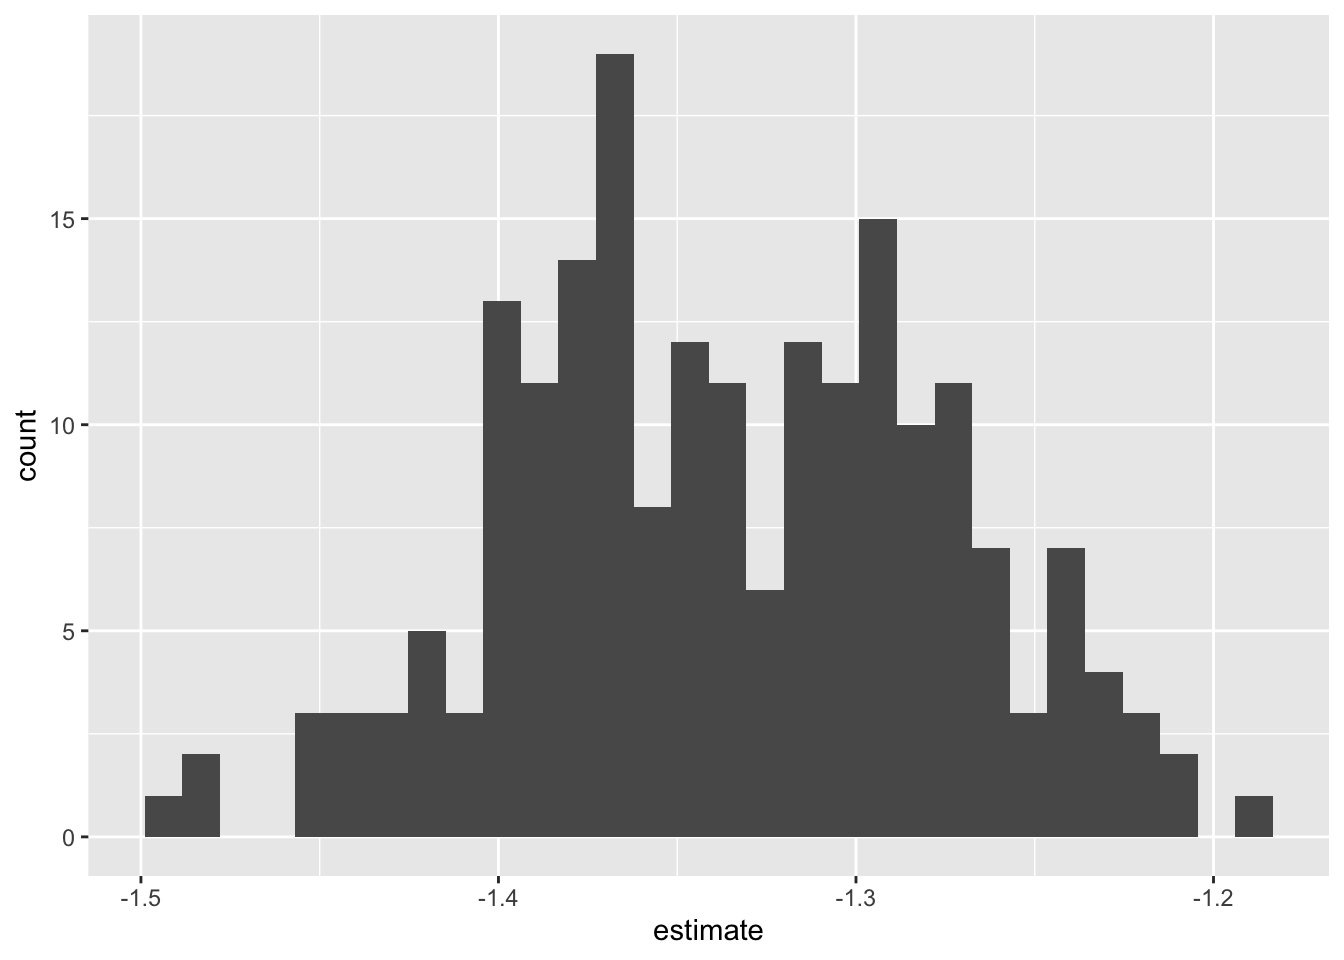
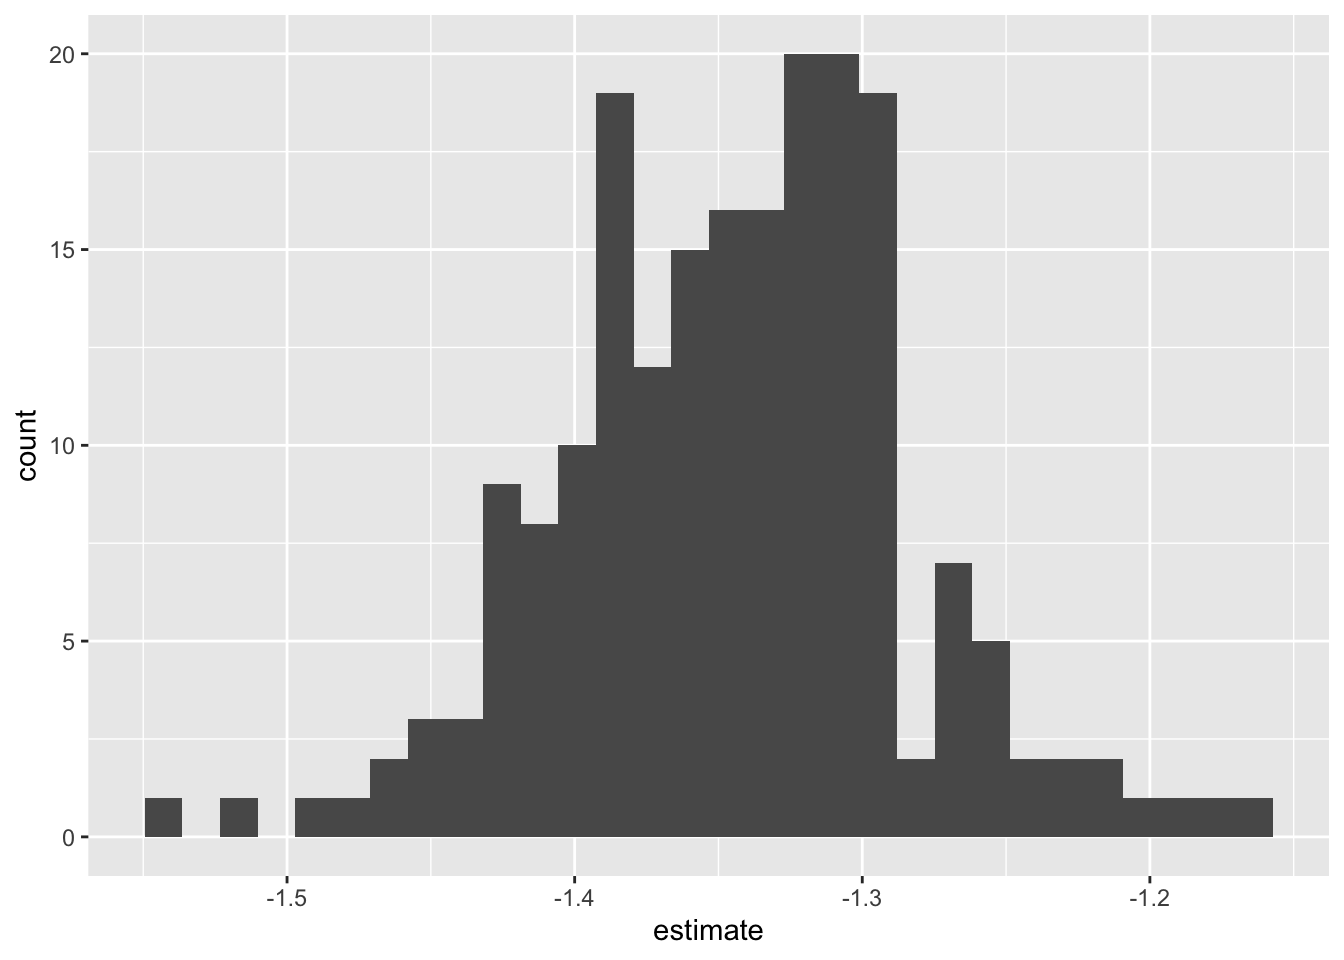
adding more explanation to plots
also naming code chonks, adding reminder on log-10 scaling readouts, adding more comments in crazy plotting code

diff --git a/posts/2020-04-08-tidy-multilevel/index.html b/posts/2020-04-08-tidy-multilevel/index.html
@@ -406,19 +406,19 @@ plot_hist_avo_total_volume &lt;- avocado %&gt;%
   theme_bw()
 
 plot_hist_avo_total_volume</code></pre>
-<p><img src="/posts/2020-04-08-tidy-multilevel/index_files/figure-html/unnamed-chunk-6-1.png" width="672" /></p>
+<p><img src="/posts/2020-04-08-tidy-multilevel/index_files/figure-html/avo-vol-hist-1.png" width="672" /></p>
 <p>Ooh, yikes, the weekly total avocados sold looks super gamma-skewed. Most weeks it’s maybe a few tens of thousands of avocados sold, but in some weeks and some regions it gets into the millions of avocados sold (that’s a lot of avocados in a week!), so we would probably do well to log-transform the data to try to get it to take a more normal-ish distribution.</p>
 <p>Right now, we can use one of <code>ggplot2</code>’s scale helper functions to set the scale to be on log-10 units.</p>
 <pre class="language-r"><code class="language-r">plot_hist_avo_total_volume +
   scale_x_log10()</code></pre>
-<p><img src="/posts/2020-04-08-tidy-multilevel/index_files/figure-html/unnamed-chunk-7-1.png" width="672" /></p>
+<p><img src="/posts/2020-04-08-tidy-multilevel/index_files/figure-html/avo-vol-hist-scaled-1.png" width="672" /></p>
 <p>That looks much better! Now we can proceed.</p>
 <p>Next, let’s break up the graph by region, so we can see the sub-histograms of total avocados sold for each metropolitan area. A super-fast way to break up your graph by each grouping unit is to <em>facet</em> your ggplot, or to break it up into small multiples. I like to use <code>facet_wrap(~ grouping_unit)</code> to break a single plot up, so that the data for each metro area is displayed on its own sub-plot, or facet. The “wrap” part of <code>facet_wrap()</code> tries to arrange the facets in “reading” order, from left-to-right and then top-to-bottom to fill the plot area as efficiently as possible.</p>
 <pre class="language-r"><code class="language-r">plot_hist_avo_total_volume +
   # let&#39;s not forget to log-scale the x-axis!
   scale_x_log10() +
   facet_wrap(~ region)</code></pre>
-<p><img src="/posts/2020-04-08-tidy-multilevel/index_files/figure-html/unnamed-chunk-8-1.png" width="672" /></p>
+<p><img src="/posts/2020-04-08-tidy-multilevel/index_files/figure-html/avo-vol-hist-faceted-1.png" width="672" /></p>
 <p>Incidentally, graphing data at first can be a great way of identifying important variables in the data that need to be considered. For example, what if I had forgotten to break up the sales data by conventional vs. organic avocado type?</p>
 <pre class="language-r"><code class="language-r">avocado %&gt;%
   # Notice that I&#39;ve removed the fill aesthetic
@@ -427,7 +427,7 @@ plot_hist_avo_total_volume</code></pre>
   geom_histogram(position = &quot;identity&quot;, bins = 25, alpha = 0.5) +
   scale_x_log10() +
   theme_bw()</code></pre>
-<p><img src="/posts/2020-04-08-tidy-multilevel/index_files/figure-html/unnamed-chunk-9-1.png" width="672" /></p>
+<p><img src="/posts/2020-04-08-tidy-multilevel/index_files/figure-html/avo-vol-hist-bad-1.png" width="672" /></p>
 <p>I might see a bimodal histogram and say “huh, that’s funny.” If I weren’t so careful, I might continue my business without accounting for this bimodality. But optimally I’d stop and think “what additional variable might be driving this bimodality?” and after some exploration, realize that I need to consider conventional vs. organic avocado type when looking at avocado sales in order to properly characterize the data. Always keep an eye out!</p>
 </div>
 <div id="basic-summary-statistics" class="section level3" number="3.4.2">
@@ -999,7 +999,7 @@ avocado %&lt;&gt;%
   labs(y = &quot;Average price (dollars per avocado)&quot;,
        title = &quot;Weekly prices per avocado, by organic vs. conventional&quot;) +
   theme_bw()</code></pre>
-<p><img src="/posts/2020-04-08-tidy-multilevel/index_files/figure-html/unnamed-chunk-33-1.png" width="672" /></p>
+<p><img src="/posts/2020-04-08-tidy-multilevel/index_files/figure-html/avo-price-timeseries-1.png" width="672" /></p>
 <p>Grocery shoppers might be less likely to buy as many conventional avocados at all just because of the price. How can we take into account that organic avocados are more expensive when estimating the difference in volume of avocados purchased, to make our analysis more robust?</p>
 <p>If we can adjust for the usual premium price on organic avocados, we can estimate the difference in total volume of avocados purchased, over and above that which you would expect when one type of avocado is cheaper. That might be able to tell us something like the following: <strong>if conventional and organic avocados were the same price, what is the estimated difference in volume of avocados purchased?</strong></p>
 <p>This sounds like a job for <strong>linear regression!</strong></p>
@@ -1152,7 +1152,7 @@ avo_coefs</code></pre>
 <h3><span class="header-section-number">3.7.3</span> Visualizing many statistics</h3>
 <p>Now that we have our model coefficients in a long form dataframe, with a chunk of rows for each metropolitan area, let’s plot the model estimates for each region!</p>
 <p>Here, we’ll focus on plotting the values of the <code>typeorganic</code> term, as this will index each region’s relative buying preference (or anti-preference?) for organic relative to conventional avocados. This estimate will conveniently also be adjusted for average avocado price across regions, so it should <em>not</em> be affected by general differences in avocado prices (and cost of living) from region to region.</p>
-<pre class="language-r"><code class="language-r">avo_coefs %&gt;%
+<pre class="language-r"><code class="language-r">avo_coefplot &lt;- avo_coefs %&gt;%
   filter(term == &quot;typeorganic&quot;) %&gt;%
   # Here, using fct_reorder() from the forcats pkg of the tidyverse
   # which provides a bunch of nice factor manipulating functions
@@ -1164,6 +1164,14 @@ avo_coefs</code></pre>
                     ymax = estimate + std.error),
                 width = 0) +
   geom_point() +
+  # let&#39;s annotate
+  # to add guides to remind us how to interpret the log-10 scale
+  # that stuff is brain-bendy!
+  geom_hline(yintercept = c(-1, -2), linetype = 3) +
+  annotate(&quot;text&quot;, x = 8, y = -1.05, hjust = 0,
+           label = &quot;-1 on log10 = 10% as many&quot;, color = &quot;black&quot;) +
+  annotate(&quot;text&quot;, x = 8, y = -1.95, hjust = 0,
+           label = &quot;-2 on log10 = 1% as many&quot;, color = &quot;black&quot;) +
   labs(x = &quot;Metro area&quot;,
        y = &quot;Log-10 diff in volume of organic avos sold&quot;,
        title = &quot;People really do not buy organic avocados&quot;,
@@ -1172,8 +1180,56 @@ avo_coefs</code></pre>
   # since the region names are long and would otherwise overlap on the plot,
   # right-justifying each of them and tilting them to 45 degrees
   # will make them all stick off the plot on an angle
-  theme(axis.text.x = element_text(hjust = 1, angle = 45))</code></pre>
-<p><img src="/posts/2020-04-08-tidy-multilevel/index_files/figure-html/unnamed-chunk-41-1.png" width="672" /></p>
+  theme(axis.text.x = element_text(hjust = 1, angle = 45))
+
+avo_coefplot</code></pre>
+<p><img src="/posts/2020-04-08-tidy-multilevel/index_files/figure-html/avo-raw-coefplot-1-1.png" width="672" /></p>
+<p>On this plot, metro areas on the <em>left</em> of the plot are areas that buy a <em>greater</em> percentage of organic avocados relative to conventional, and metro areas on the <em>right</em> of the plot are areas that buy a <em>lower</em> percentage of avocados relative to conventional.</p>
+<p>Be mindful of the log scale when reading these numbers off the plot–thinking on the log scale can be tricky! Since we’re using log-10 scaling here, a log-10 difference of -1 corresponds to a real difference of 10<sup>-1</sup>, or a 10% reduction in number. Similarly, a log-10 difference of -2 corresponds to a real difference of 10<sup>-2</sup>, or a 1% reduction in number. (A log-10 difference of -1.5 is not as intuitive, we’re all better off just calculating 10<sup->1.5</sup>)</p>
+<p>So in Seattle, we estimate that when the price premium for organic avocados is taken into account, people buy approximately 10% as many organic avocados as they do conventional avocados. Meanwhile, in Miami &amp; Fort Lauderdale, we estimate that people buy less than 1% as many organic avocados as they do conventional avocados. A log-10 difference of 1 is a whole order of magnitude different in raw avocado units!</p>
+<blockquote>
+<p><strong>Instructor’s note:</strong> The following plot takes a bit of fiddling to set up, and requires chaining together many pieces of data wrangling logic. If learners have never made a model-estimate-plus-raw-data plot like this before, this may be a bit beyond scope to live-code. In that case, I recommend taking a couple minutes for learners to brainstorm possible strategies for extending the basic coefficient plot shown above, and then showing a fully rendered copy of the plot below as an example extension plot, qualitatively describing the added layers and annotations.</p>
+</blockquote>
+<pre class="language-r"><code class="language-r">avo_raw_diffs &lt;- avocado %&gt;%
+  # first, prepare to calculate the raw difference in weekly volume
+  # of organic - conventional avocados bought
+  # (must be that direction bc conventional is baseline in the regression)
+  select(region, date, type, total_volume_log10) %&gt;%
+  pivot_wider(names_from = type,
+              values_from = total_volume_log10) %&gt;%
+  mutate(diff_raw = organic - conventional) %&gt;%
+  # WestTextNewMexico has some weeks with no organic avocado sales
+  # so we need to filter out some NA rows of diff_raw
+  filter(!is.na(diff_raw)) %&gt;%
+  # for each region, calculate the mean and SE of the mean
+  # of this difference
+  group_by(region) %&gt;%
+  summarize(diff_mean = mean(diff_raw),
+            diff_se = sd(diff_raw)/sqrt(length(diff_raw))) %&gt;% 
+  # in order for the plot to work
+  # (for the regions to be ordered by the model estimate)
+  # the model estimates need to be bound on to the raw diffs
+  left_join(avo_coefs %&gt;% filter(term == &quot;typeorganic&quot;),
+            by = &quot;region&quot;)
+
+avo_coefplot +
+  # error bars and points for the raw data
+  # notice that we use the data argument to feed in different data
+  geom_errorbar(aes(y = diff_mean,
+                    ymin = diff_mean - diff_se,
+                    ymax = diff_mean + diff_se),
+                data = avo_raw_diffs,
+                color = &quot;olivedrab4&quot;,
+                width = 0) +
+  geom_point(aes(y = diff_mean),
+             data = avo_raw_diffs,
+             color = &quot;olivedrab4&quot;) +
+  # hand-adding a legend
+  annotate(&quot;text&quot;, x = 45, y = -1.2, hjust = 1,
+           label = &quot;black = model-estimated&quot;, color = &quot;black&quot;) +
+  annotate(&quot;text&quot;, x = 45, y = -1.3, hjust = 1,
+           label = &quot;green = raw&quot;, color = &quot;olivedrab4&quot;)</code></pre>
+<p><img src="/posts/2020-04-08-tidy-multilevel/index_files/figure-html/avo-raw-coefplot-2-1.png" width="672" /></p>
 <p>I think we’ve gotten pretty close to an answer (not THE answer, but AN answer) to our earlier research question: <strong>Do avocado buyers prefer buying conventional or organic avocados? By how much? How do these patterns differ from region to region?</strong></p>
 <p>Avocado buyers across the US appear to prefer buying conventional avocados over organic avocados; that is, they buy many more conventional avocados than organic avocados in a given week. This holds even when you adjust for the fact that organic avocados are usually more expensive. The magnitude of this buying preference against organic avocados varies across the country–the Pacific Northwest appears to avoid organic avocados much less than the rest of the country, and Florida appears to avoid organic avocados much more than the rest of the country.</p>
 <p>That concludes the core analysis of this tutorial! If you like, continue following along for a rapid-fire demonstration of another use case of <code>map()</code> inside <code>mutate()</code> with nested dataframes to repeat analysis across many datasets containing similarly structured data.</p>
@@ -1213,22 +1269,22 @@ avo_coefs</code></pre>
 ## # A tibble: 200 x 2
 ##    splits            id          
 ##    &lt;list&gt;            &lt;chr&gt;       
-##  1 &lt;split [338/123]&gt; Bootstrap001
-##  2 &lt;split [338/127]&gt; Bootstrap002
-##  3 &lt;split [338/123]&gt; Bootstrap003
-##  4 &lt;split [338/128]&gt; Bootstrap004
-##  5 &lt;split [338/111]&gt; Bootstrap005
-##  6 &lt;split [338/133]&gt; Bootstrap006
-##  7 &lt;split [338/118]&gt; Bootstrap007
-##  8 &lt;split [338/124]&gt; Bootstrap008
-##  9 &lt;split [338/119]&gt; Bootstrap009
-## 10 &lt;split [338/131]&gt; Bootstrap010
+##  1 &lt;split [338/126]&gt; Bootstrap001
+##  2 &lt;split [338/134]&gt; Bootstrap002
+##  3 &lt;split [338/133]&gt; Bootstrap003
+##  4 &lt;split [338/121]&gt; Bootstrap004
+##  5 &lt;split [338/121]&gt; Bootstrap005
+##  6 &lt;split [338/119]&gt; Bootstrap006
+##  7 &lt;split [338/121]&gt; Bootstrap007
+##  8 &lt;split [338/123]&gt; Bootstrap008
+##  9 &lt;split [338/124]&gt; Bootstrap009
+## 10 &lt;split [338/130]&gt; Bootstrap010
 ## # … with 190 more rows</code></pre>
 <p><code>bootstraps()</code> returns a dataframe with a character column called <code>id</code> which labels each iteration, and a list column called <code>splits</code> where each element houses metadata for a resampled dataset. I say metadata because part of the trick that <code>bootstraps()</code> uses is that the native <code>split</code> object type doesn’t actually contain any data on its own:</p>
 <pre class="language-r"><code class="language-r">avo_nyc_boot %&gt;%
   pull(splits) %&gt;%
   pluck(1)</code></pre>
-<pre><code>## &lt;338/123/338&gt;</code></pre>
+<pre><code>## &lt;338/126/338&gt;</code></pre>
 <p>These numbers aren’t really designed for human consumption on their own. The real magic happens when you call <code>as.data.frame()</code> on a <code>split</code> object, which triggers it to actually do the resampling and give you a tibble of data.</p>
 <pre class="language-r"><code class="language-r">avo_nyc_boot %&gt;%
   pull(splits) %&gt;%
@@ -1238,15 +1294,15 @@ avo_coefs</code></pre>
 ##    region date       avg_price total_volume type   year total_volume_lo…
 ##    &lt;chr&gt;  &lt;date&gt;         &lt;dbl&gt;        &lt;dbl&gt; &lt;chr&gt; &lt;int&gt;            &lt;dbl&gt;
 ##  1 NewYo… 2016-10-02      2.41       35543. orga…  2016             4.55
-##  2 NewYo… 2015-08-30      2.24       16542. orga…  2015             4.22
-##  3 NewYo… 2017-01-22      2.05       49056. orga…  2017             4.69
-##  4 NewYo… 2017-09-17      2.08       70931. orga…  2017             4.85
-##  5 NewYo… 2015-08-30      1.22     1251081. conv…  2015             6.10
-##  6 NewYo… 2017-05-28      1.75     1451147. conv…  2017             6.16
-##  7 NewYo… 2016-07-24      2.32       29301. orga…  2016             4.47
-##  8 NewYo… 2016-02-14      2.11       28290. orga…  2016             4.45
-##  9 NewYo… 2017-12-17      1.41     1181560. conv…  2017             6.07
-## 10 NewYo… 2015-03-29      2.08       16567. orga…  2015             4.22
+##  2 NewYo… 2018-02-25      1.3      1615325. conv…  2018             6.21
+##  3 NewYo… 2016-10-23      1.95      807565. conv…  2016             5.91
+##  4 NewYo… 2016-07-24      2.32       29301. orga…  2016             4.47
+##  5 NewYo… 2016-06-26      2.23       38646. orga…  2016             4.59
+##  6 NewYo… 2018-01-14      1.67     1294150. conv…  2018             6.11
+##  7 NewYo… 2017-06-11      1.74     1374186. conv…  2017             6.14
+##  8 NewYo… 2015-12-06      1.65       18494. orga…  2015             4.27
+##  9 NewYo… 2016-12-11      1.32     1163696. conv…  2016             6.07
+## 10 NewYo… 2017-04-30      1.84     1228100. conv…  2017             6.09
 ## # … with 328 more rows, and 1 more variable: avg_price_shift1 &lt;dbl&gt;</code></pre>
 <p>To double-check that the data were actually resampled with replacement, we can look in this first resampled tibble to make sure that at least some of the rows appear multiple times in the data.</p>
 <pre class="language-r"><code class="language-r">avo_nyc_boot %&gt;%
@@ -1255,20 +1311,20 @@ avo_coefs</code></pre>
   as.data.frame() %&gt;%
   count(date) %&gt;%
   arrange(desc(n))</code></pre>
-<pre><code>## # A tibble: 140 x 2
+<pre><code>## # A tibble: 145 x 2
 ##    date           n
 ##    &lt;date&gt;     &lt;int&gt;
-##  1 2016-07-17     7
-##  2 2015-03-29     6
-##  3 2015-05-17     6
-##  4 2016-01-31     5
-##  5 2017-04-23     5
-##  6 2017-06-11     5
-##  7 2018-02-25     5
-##  8 2018-03-25     5
-##  9 2015-03-08     4
-## 10 2015-06-14     4
-## # … with 130 more rows</code></pre>
+##  1 2016-09-25     9
+##  2 2016-04-17     6
+##  3 2015-02-15     5
+##  4 2015-05-24     5
+##  5 2015-06-28     5
+##  6 2015-07-19     5
+##  7 2015-11-01     5
+##  8 2016-06-26     5
+##  9 2017-05-14     5
+## 10 2018-01-07     5
+## # … with 135 more rows</code></pre>
 <p>Looks resampled to me! Now, we can use the same strategy we used before, but instead of operating on the raw data for each <code>region</code> contained in the <code>sales</code> column of <code>avo_by_region</code>, we’ll operate on the resampled data for each bootstrap <code>id</code> contained in the <code>splits</code> column of <code>avo_nyc_boot</code>.</p>
 <pre class="language-r"><code class="language-r">avo_nyc_boot %&lt;&gt;%
   # Note that here, I&#39;m not saving the models into their own column
@@ -1293,24 +1349,26 @@ avo_coefs</code></pre>
 <pre><code>## # A tibble: 600 x 6
 ##    id           term             estimate std.error statistic   p.value
 ##    &lt;chr&gt;        &lt;chr&gt;               &lt;dbl&gt;     &lt;dbl&gt;     &lt;dbl&gt;     &lt;dbl&gt;
-##  1 Bootstrap001 (Intercept)         6.28     0.0291    216.   0.       
-##  2 Bootstrap001 typeorganic        -1.29     0.0423    -30.4  2.51e- 98
-##  3 Bootstrap001 avg_price_shift1   -0.365    0.0539     -6.77 5.63e- 11
-##  4 Bootstrap002 (Intercept)         6.19     0.0270    229.   0.       
-##  5 Bootstrap002 typeorganic        -1.44     0.0443    -32.6  5.16e-106
-##  6 Bootstrap002 avg_price_shift1   -0.154    0.0531     -2.90 3.99e-  3
-##  7 Bootstrap003 (Intercept)         6.21     0.0281    221.   0.       
-##  8 Bootstrap003 typeorganic        -1.39     0.0449    -31.0  2.33e-100
-##  9 Bootstrap003 avg_price_shift1   -0.209    0.0552     -3.79 1.76e-  4
-## 10 Bootstrap004 (Intercept)         6.28     0.0309    203.   0.       
+##  1 Bootstrap001 (Intercept)         6.23     0.0300    208.   0.       
+##  2 Bootstrap001 typeorganic        -1.40     0.0454    -30.8  8.68e-100
+##  3 Bootstrap001 avg_price_shift1   -0.266    0.0561     -4.74 3.17e-  6
+##  4 Bootstrap002 (Intercept)         6.29     0.0335    188.   0.       
+##  5 Bootstrap002 typeorganic        -1.29     0.0485    -26.7  6.79e- 85
+##  6 Bootstrap002 avg_price_shift1   -0.397    0.0619     -6.41 4.92e- 10
+##  7 Bootstrap003 (Intercept)         6.25     0.0303    206.   0.       
+##  8 Bootstrap003 typeorganic        -1.36     0.0470    -28.8  1.06e- 92
+##  9 Bootstrap003 avg_price_shift1   -0.295    0.0586     -5.03 8.05e-  7
+## 10 Bootstrap004 (Intercept)         6.22     0.0290    214.   0.       
 ## # … with 590 more rows</code></pre>
 <p>These coefficients are now ready to feed into a <code>ggplot2</code> histogram. I’ll just inspect the bootstrapped error distribution for <code>typeorganic</code>, the coefficient for the weekly difference in (log-10) volume of organic avocados sold relative to conventional avocados.</p>
 <pre class="language-r"><code class="language-r">avo_nyc_boot %&gt;%
   filter(term == &quot;typeorganic&quot;) %&gt;%
   ggplot(aes(x = estimate)) +
-  geom_histogram()</code></pre>
+  geom_histogram() +
+  theme_bw()</code></pre>
 <pre><code>## `stat_bin()` using `bins = 30`. Pick better value with `binwidth`.</code></pre>
-<p><img src="/posts/2020-04-08-tidy-multilevel/index_files/figure-html/unnamed-chunk-49-1.png" width="672" /></p>
+<p><img src="/posts/2020-04-08-tidy-multilevel/index_files/figure-html/avo-boot-hist-1.png" width="672" /></p>
+<p>We can see that this error distribution shows high kurtosis; that is, that the tails are short and the center of distribution is thick. This means we probably don’t want to use the standard deviation of this distribution as the standard error of the estimate, since the error distribution isn’t normal. Instead, we can use percentiles to report error intervals non-parametrically.</p>
 <p>For the last plot I’ll show in this demo, I’ll do a bit more data manipulation to join the bootstrapped standard error data and the “raw” <code>lm()</code>-estimated standard error data for the original New York avocado sales model, to produce a plot comparing the standard errors from the model estimate and from bootstrapping. This way we can see how much more conservative (how much larger) the bootstrapped standard error is relative to the <code>lm()</code>-estimated error.</p>
 <pre class="language-r"><code class="language-r">avo_nyc_boot %&gt;%
   # for each term in the model, over all bootstrap iterations,
@@ -1353,7 +1411,7 @@ avo_coefs</code></pre>
        title = &quot;Bootstrap vs. &#39;raw&#39; errors for the New York avocado sale volume regression&quot;,
        subtitle = &quot;The bootstrapped error is more conservative&quot;) +
   theme_bw()</code></pre>
-<p><img src="/posts/2020-04-08-tidy-multilevel/index_files/figure-html/unnamed-chunk-50-1.png" width="672" /></p>
+<p><img src="/posts/2020-04-08-tidy-multilevel/index_files/figure-html/avo-boot-coefplot-1.png" width="672" /></p>
 <p>Yep, it looks like the error bounds on the bootstrapped data are wider than the equivalent standard error from the <code>lm</code> fit to the raw data. This will usually be the case! Perhaps a good argument to use bootstrapped standard errors more often, to be conservative with our statistics.</p>
 </div>
 </div>
